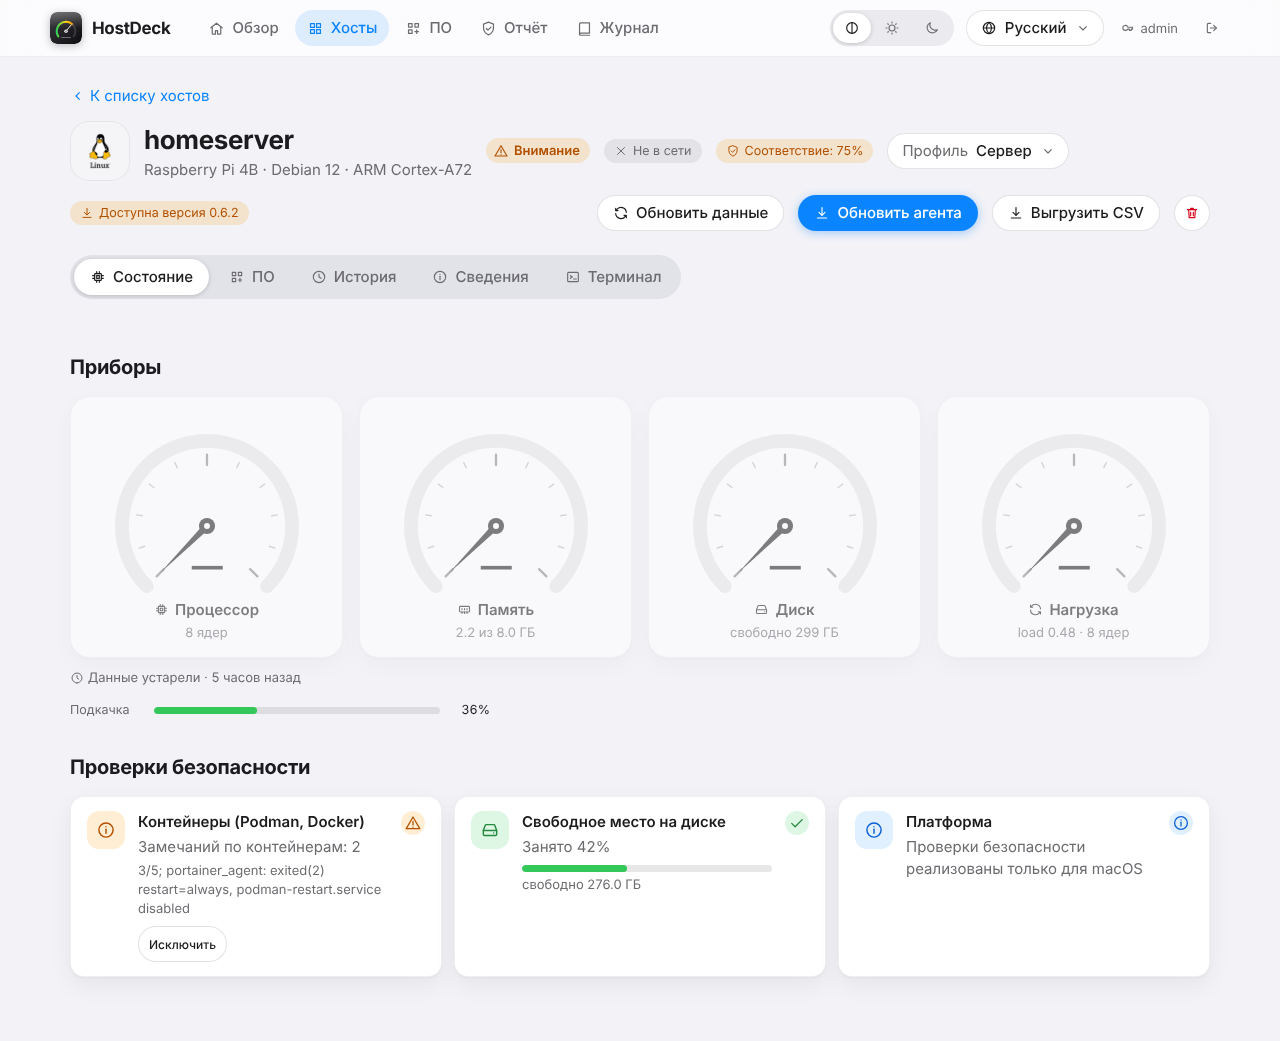
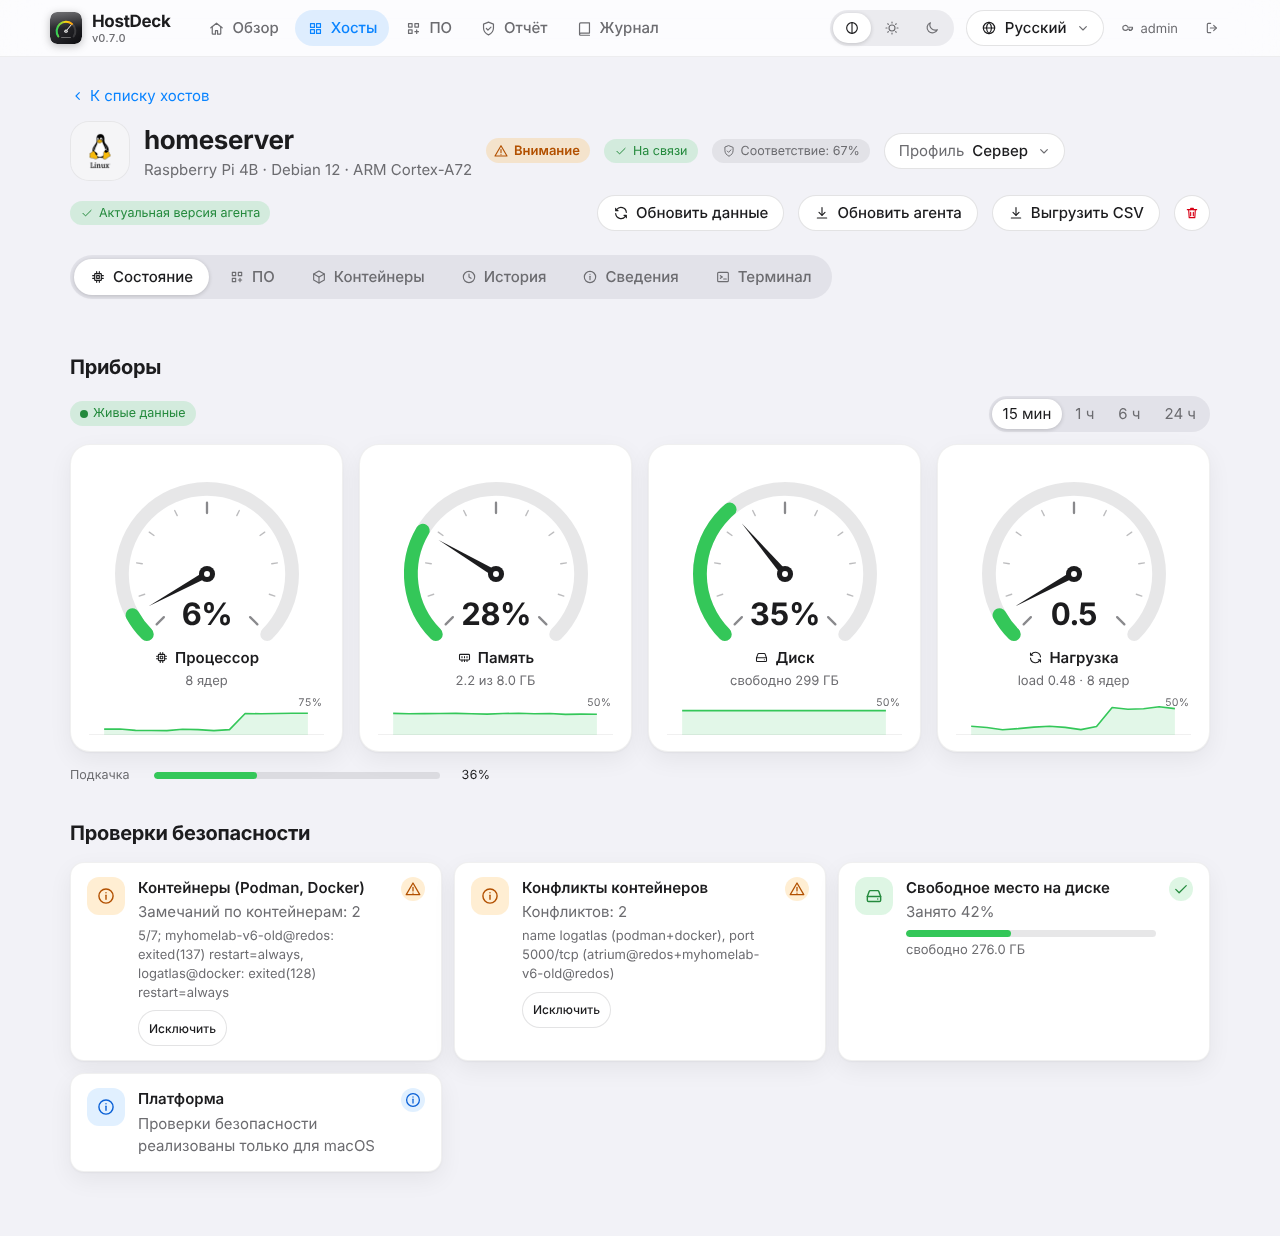
Документация 0.7.0: возможности по системам, журнал изменений, скриншоты контейнеров и подсказки

diff --git a/docs/features.md b/docs/features.md
@@ -1,0 +1,45 @@
+# Возможности по системам
+
+Что умеет HostDeck на каждой системе. Версия 0.7.0.
+
+| Возможность | macOS (агент) | Linux (агент) | Сервер и веб-интерфейс |
+|---|---|---|---|
+| Проверки безопасности | да, около 30 | да, около 35 (RED OS, Debian и другие) | показ, профили, исключения, история |
+| Приборы: процессор, память, диск, батарея или нагрузка | да (`top`, `vm_stat`, `pmset`) | да (`/proc`) | показ, плавная анимация, цвет и пульс по порогу |
+| Живой режим приборов | да, агент 0.7.0+ | да, агент 0.7.0+ | страница просит режим live каждые 30 с, пока открыта вкладка |
+| Мини-графики 15 мин – 24 ч | да | да | хранит точки 24 часа |
+| Список установленного ПО | приложения, Homebrew, cask, pkg | пакеты `rpm` или `dpkg` | вкладка «ПО», страница «ПО», CSV |
+| Контейнеры: вкладка и проверки | нет | да: Podman root и rootless, Docker | вкладка «Контейнеры», проверки `containers` и `container_conflicts` |
+| Консоль root в браузере | да, по разрешению на хосте | да, по разрешению на хосте | вкладка «Терминал», журнал сессий |
+| Самообновление агента | да, подпись проверяется, если задан ключ | да, подпись проверяется, если задан ключ | кнопка «Обновить агента» |
+
+## macOS
+
+- Проверки из раздела «Проверки macOS» в [README](../README.md): FileVault, SIP, Gatekeeper, брандмауэр, обновления, Time Machine, общий доступ, XProtect и другие.
+- Приборы и мини-графики. В живом режиме агент опрашивает систему каждые ~4 секунды; `top` занимает 1–2 секунды выборки, нагрузка небольшая.
+- Контейнеры на macOS не собираются (Docker Desktop и `podman machine` не покрыты).
+
+## Linux
+
+- Проверки соответствия: SELinux, firewalld/ufw, iptables/nftables, sshd, обновления, auditd, время, сбойные службы, домен FreeIPA, сертификаты, целостность файлов и другие (список и пояснения в [checks.md](checks.md)).
+- **Контейнеры** (нужен `podman` или `docker` на хосте, агент запускается от root):
+  - собираются контейнеры root и rootless-контейнеры пользователей с UID 1000–59999, у которых есть сеанс (`/run/user/UID`);
+  - в таблицу попадают имя, образ, среда, состояние, код выхода, политика перезапуска, health, опубликованные порты и время запуска;
+  - переменные окружения, команды запуска и тома не читаются (в них бывают секреты);
+  - проверка `containers`: остановленный контейнер с `always` или `unless-stopped`, нездоровый, перезапускающийся по кругу, сбойная пользовательская служба, выключенный `podman-restart.service`;
+  - проверка `container_conflicts`: одно имя в разных средах, порт у нескольких контейнеров при остановленном «автозапускаемом».
+- Подсказки с командами подбирают `podman` или `docker` и пользователя rootless-контейнера.
+
+## Сервер и веб-интерфейс
+
+- Работает в Podman (Quadlet) или Docker, данные в `/data`; требований к ОС клиента нет, интерфейс открывается в браузере.
+- Страница «ПО»: поиск по всему парку, группировка по версиям, условие «версия старше…».
+- Подсказка к проверке: закрепляется щелчком, у команд кнопка «Копировать».
+- Номер релиза под логотипом; файл `server/app/VERSION` поднимается вместе с версией агента.
+- Живой режим: `POST /api/hosts/{id}/live` ставит агенту команду `live` не чаще одного раза в 30 секунд и возвращает свежие метрики; историю отдаёт `GET /api/hosts/{id}/metrics/history`.
+
+## Ограничения
+
+- Живой режим и вкладка «Контейнеры» требуют агента 0.7.0; у старых агентов метрики приходят раз в минуту.
+- Список контейнеров ограничен 150 записями на хост.
+- Графики хранят 24 часа; у батареи мини-графика нет.

diff --git a/CHANGELOG.md b/CHANGELOG.md
@@ -1,0 +1,35 @@
+# Журнал изменений
+
+Версия сервера и агента общая; номер виден под логотипом в веб-интерфейсе.
+
+## 0.7.0 — 2026-10-27
+
+**Все системы (веб-интерфейс и сервер)**
+- Номер релиза под логотипом (`server/app/VERSION`; тест сверяет его с версией агента).
+- Живые приборы: пока открыта вкладка «Состояние», страница обновляется раз в 3 секунды, а сервер просит агента слать метрики каждые ~4 секунды (режим выключается сам через 90 секунд). Стрелки и дуги движутся плавно, при превышении порога прибор краснеет и пульсирует.
+- Мини-графики под приборами за 15 минут, 1, 6 и 24 часа. Сервер хранит точки 24 часа (таблица `metric_points`), чаще одной точки в 3 секунды не пишет, при выводе усредняет до ~180 точек.
+- Новые запросы: `POST /api/hosts/{id}/live`, `GET /api/hosts/{id}/metrics/history?span=`.
+
+**Linux**
+- Вкладка «Контейнеры» в карточке хоста: контейнеры Podman (root и rootless) и Docker с образом, средой, состоянием, политикой перезапуска, health, портами и временем запуска. Поиск по имени, образу и порту, фильтр «работают / остановлены / с замечаниями».
+- Проверка «Конфликты контейнеров» (`container_conflicts`): одно имя в разных средах (Podman root, Podman пользователя, Docker) и порт хоста, который делят контейнеры, один из которых остановлен, но должен подниматься сам.
+- Подсказки учитывают среду: для Docker подставляются `docker logs/start/rm`, для rootless Podman `sudo -u ПОЛЬЗОВАТЕЛЬ env XDG_RUNTIME_DIR=…`.
+- Агент не собирает переменные окружения, команды запуска и тома контейнеров.
+
+**macOS**
+- Живые приборы и мини-графики работают так же, как на Linux (метрики через `top`, `vm_stat`, `pmset`). Контейнеры на macOS не собираются.
+
+## 0.6.3 — 2026-10-27
+
+**Linux**
+- Проверка «Контейнеры» (`containers`): остановленный контейнер с `restart=always|unless-stopped`, нездоровый контейнер, перезапуск по кругу (ошибка), сбойная пользовательская служба контейнера, выключенный `podman-restart.service`.
+- Подсказки в подсказке-карточке: журнал, запуск, `reset-failed` для исчезнувшей службы, поиск занявшего порт, удаление заменённого контейнера.
+
+**Все системы**
+- Страница «ПО»: поиск программы по всему парку с группировкой по версиям и хостам, условие «версия старше…», выгрузка в CSV.
+- Подсказка к проверке закрепляется при нажатии (Esc, крестик или щелчок вне её закрывают), у каждой команды кнопка «Копировать».
+- Убрана дублирующая кнопка «Консоль»: терминал остался вкладкой карточки хоста.
+
+## Раньше
+
+Подпись обновлений агента (Ed25519, `make release`), профили хостов, исключения, история и отчёт, резервная копия базы, консоль root в браузере. Подробности в [README](README.md) и [docs/lab-notes.md](docs/lab-notes.md).
